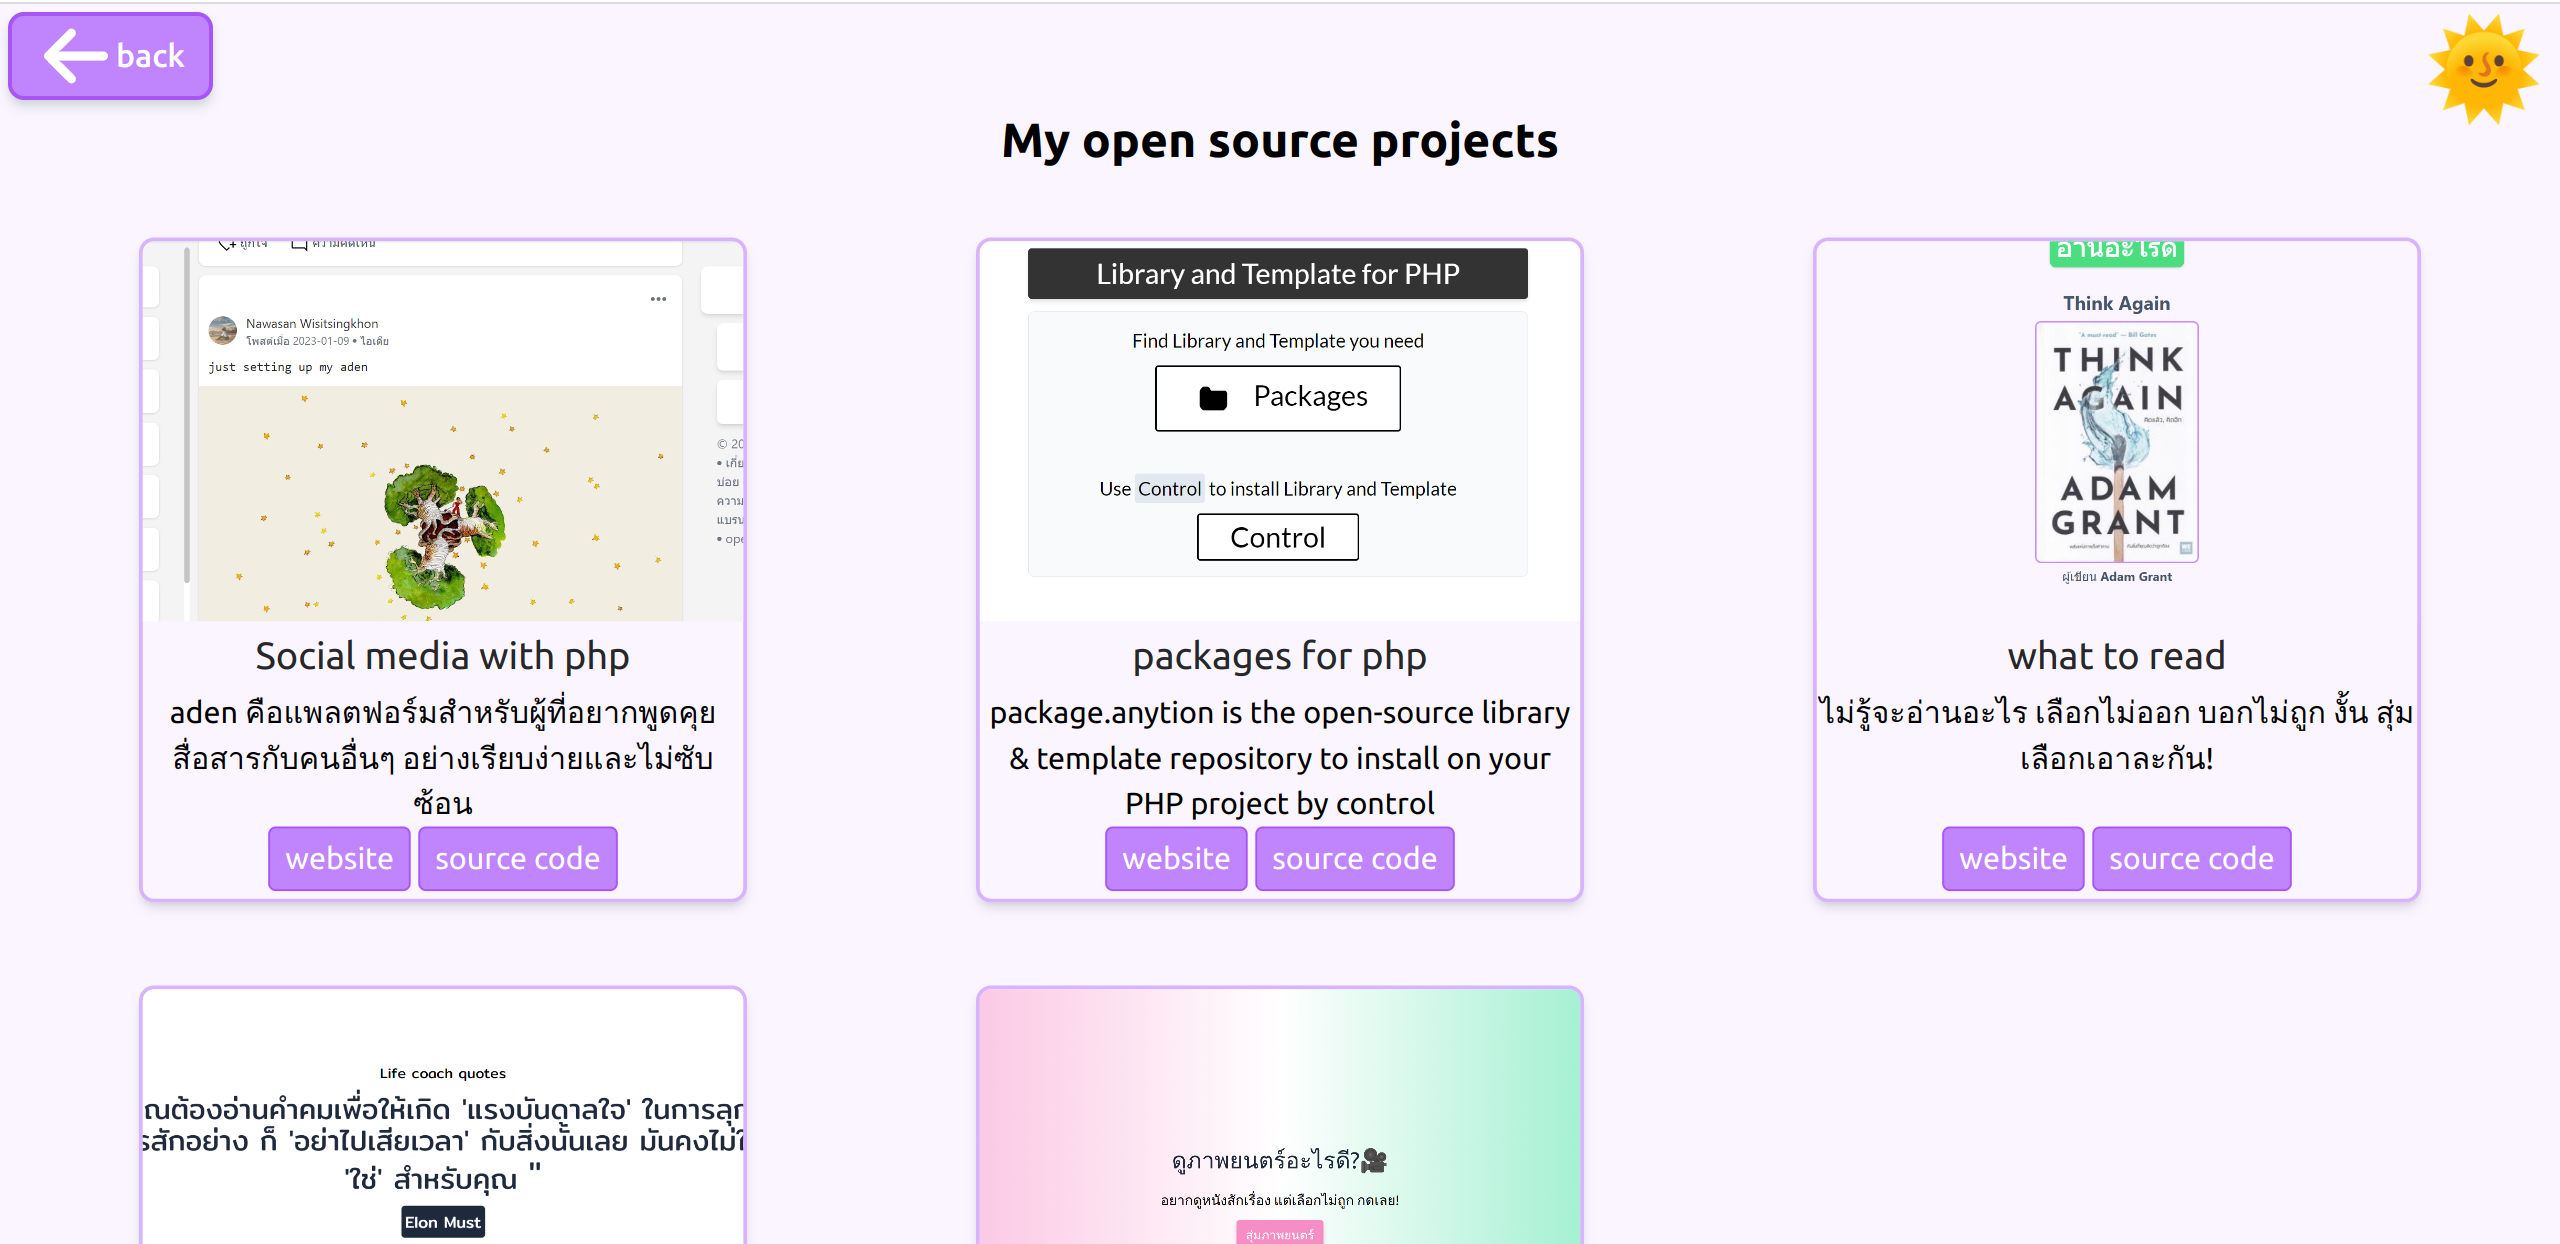
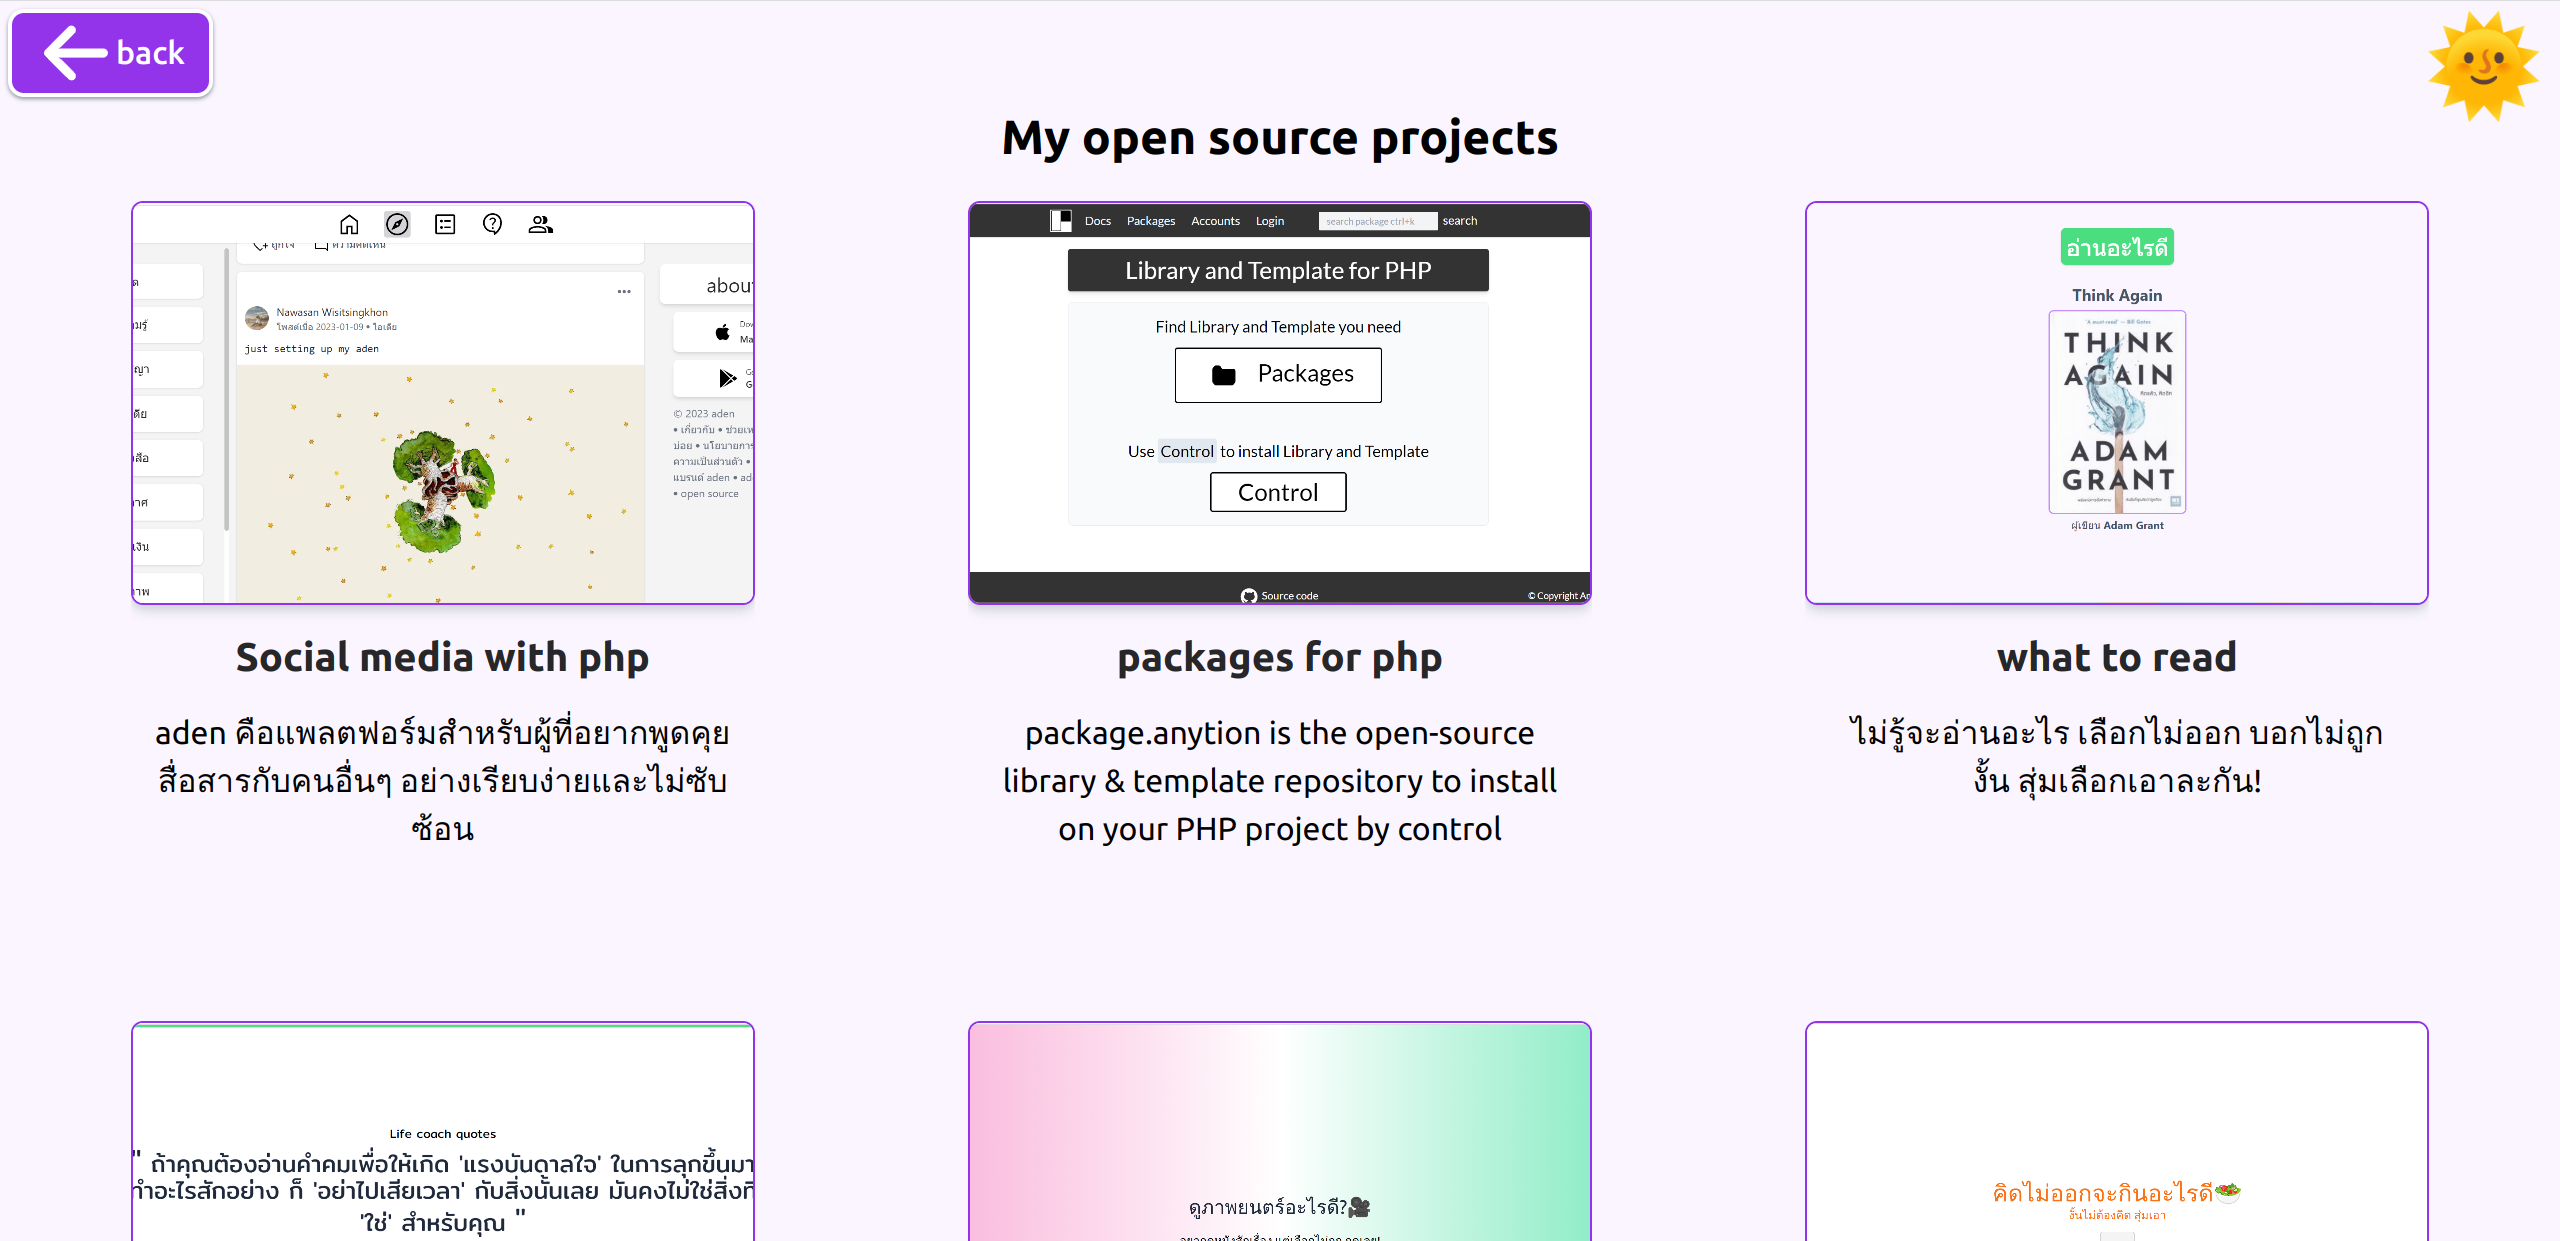
update styles; change images of projects preview;

diff --git a/components/ProjectCard.tsx b/components/ProjectCard.tsx
@@ -16,25 +16,25 @@ const ProjectCard: FC<ProjectCardProps> = ({
   src,
 }) => {
   return (
-    <div className="h-[370px] mb-5">
-      <div className="img-block border-purple-500  sm:shadow-purple-200 sm:hover:shadow-purple-200 dark:hover:shadow-lg dark:shadow-md dark:shadow-slate-600 dark:hover:shadow-slate-800 bg-white p-1 border sm:scale-95 sm:hover:scale-100 duration-500 relative inline-block  w-[320px] h-[370px] rounded-lg overflow-hidden sm:shadow sm:hover:shadow-lg dark:border-slate-200  dark:bg-slate-800">
-        <div className=" shadow-none rounded-lg overflow-hidden">
-          <div className="overflow-hidden">
+    <div className="h-[390px] mb-5">
+      <div className="img-block p-1 duration-500 relative inline-block  w-[320px] h-[390px] overflow-hidden dark:border-slate-200">
+        <div className=" shadow-none overflow-hidden">
+          <div className="overflow-hidden rounded-md border border-purple-600 shadow-md shadow-gray-300 dark:shadow-gray-800">
             <img
-              className="img-hover lg:scale-125 h-[200px] w-full object-cover"
+              className="img-hover shadow-inner h-[200px] w-full object-cover"
               src={src}
               alt="project images"
             />
           </div>
-          <h3 className="text-xl py-1 text-zinc-800 dark:text-white">
+          <h3 className="text-xl py-3 text-zinc-800 dark:text-white">
             <b>{title}</b>
           </h3>
           <div className="dark:text-white">
             <div className="px-3">{descript}</div>
-            <div className="link-contact lg:h-0 lg:invisible bottom-1 absolute my-1 w-full">
+            <div className="link-contact lg:h-0 overflow-hidden duration-300 bottom-1 absolute my-1 w-full">
               <a
                 target="_blank"
-                className="border-2 border-white shadow dark:shadow-none shadow-gray-400 hover:shadow-lg hover:shadow-gray-300 hover:scale-105 inline-block px-2 hover:px-5 py-1 bg-purple-600 hover:bg-purple-600/90  text-white rounded  duration-300 dark:border-white dark:bg-slate-800 dark:hover:bg-slate-700"
+                className="border-2 border-white shadow dark:shadow-none shadow-gray-400 hover:shadow-lg hover:shadow-gray-300 hover:scale-105 inline-block px-2 hover:px-5 py-1 bg-purple-600 hover:bg-purple-600/90  text-white rounded-md  duration-300 dark:border-white dark:bg-slate-800 dark:hover:bg-slate-700"
                 href={link}
               >
                 website
@@ -42,7 +42,7 @@ const ProjectCard: FC<ProjectCardProps> = ({
               {"  "}
               <a
                 target="_blank"
-                className="border-2 border-white shadow dark:shadow-none shadow-gray-400 hover:shadow-lg hover:shadow-gray-300 hover:scale-105 inline-block px-2 hover:px-5 py-1 bg-purple-600 hover:bg-purple-600/90  text-white rounded  duration-300 dark:border-white dark:bg-slate-800 dark:hover:bg-slate-700"
+                className="border-2 border-white shadow dark:shadow-none shadow-gray-400 hover:shadow-lg hover:shadow-gray-300 hover:scale-105 inline-block px-2 hover:px-5 py-1 bg-purple-600 hover:bg-purple-600/90  text-white rounded-md  duration-300 dark:border-white dark:bg-slate-800 dark:hover:bg-slate-700"
                 href={source}
               >
                 source code

diff --git a/styles/App.css b/styles/App.css
@@ -44,28 +44,16 @@
   transition: 1s;
 }
 .img-block:hover .img-hover {
-  transform: scale(1);
   transition: 1s;
 }
 
-.descript-hide {
-  height: 200px;
-  transition: 1s;
-}
-.img-block:hover .descript-hide {
-  padding: 0;
-  height: 0px;
-  transition: 1s;
-  border-color: transparent;
-}
-
-.img-block:hover .link-contact {
-  visibility: visible;
-  height: 35px;
-  transition: 1s;
-}
 .link-contact {
-  transition: 1s;
+  margin-left: auto;
+  margin-right: auto;
+}
+.img-block:hover .link-contact {
+  width: 100%;
+  height: 40px;
 }
 
 .marquee {
@@ -129,4 +117,8 @@
   to {
     transform: scale(1);
   }
+}
+
+img {
+  pointer-events: none;
 }
